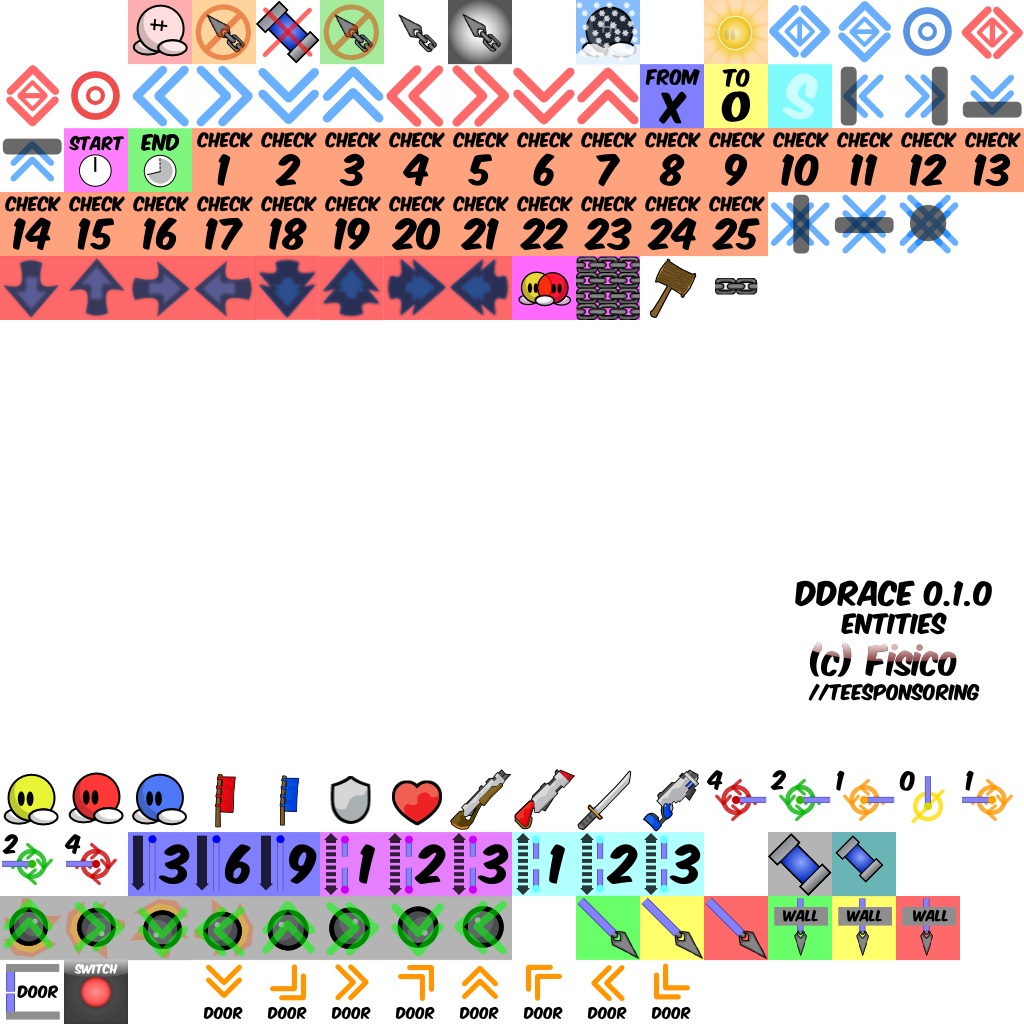
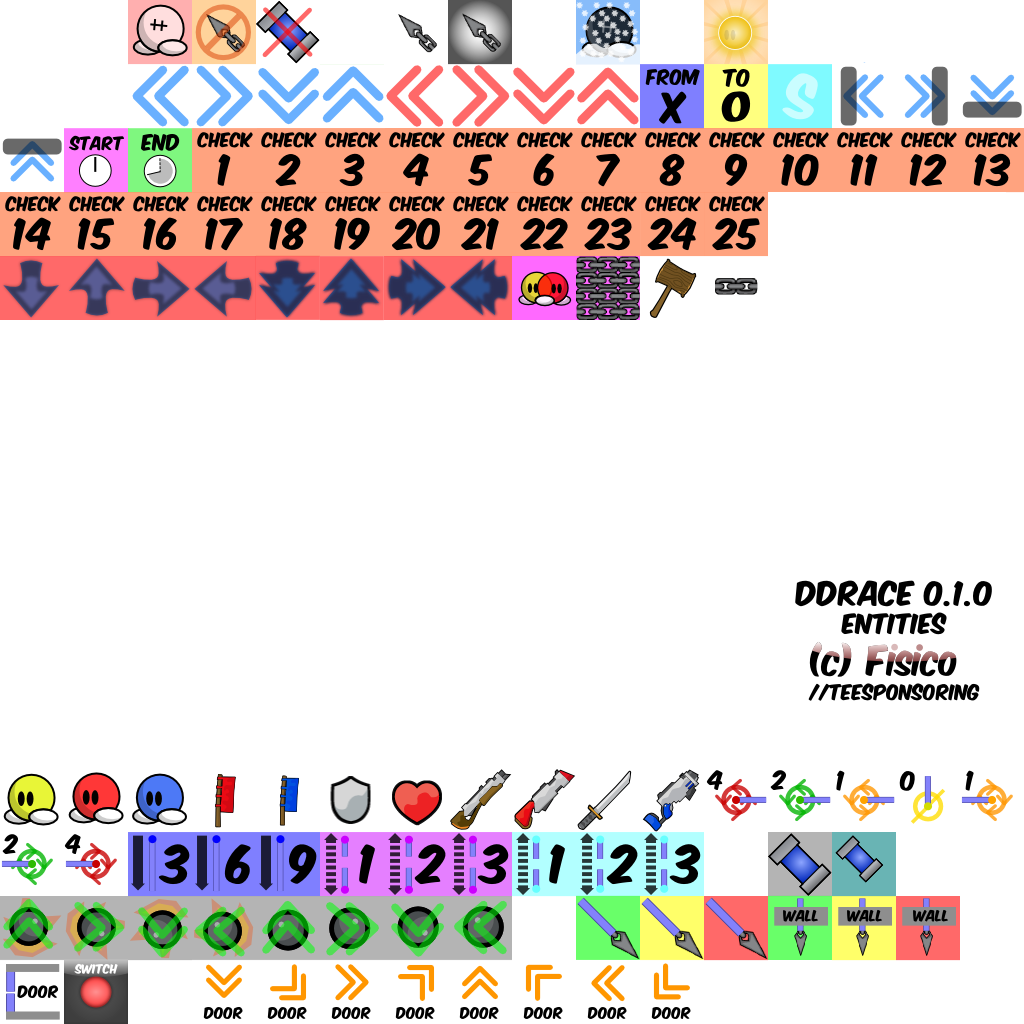
Removed Tiles that wouldn't work correctly

diff --git a/src/game/server/entities/character.cpp b/src/game/server/entities/character.cpp
@@ -734,128 +734,6 @@ void CCharacter::Tick()
 			m_Core.m_Vel.y = 0;
 		}
 	}
-	/*if(TileIndex1 == TILE_STOPH)// Itries and failed
-	{
-		if(m_Core.m_Vel.x > 0)
-		{
-			if((int)GameServer()->Collision()->GetPos(TileIndex1).x < (int)m_Core.m_Pos.x)
-				m_Core.m_Pos.x = m_PrevPrevPos.x;
-			m_Core.m_Vel.x = 0;
-		}
-		if(m_Core.m_Vel.x < 0)
-		{
-			if((int)GameServer()->Collision()->GetPos(TileIndex1).x > (int)m_Core.m_Pos.x)
-				m_Core.m_Pos.x = m_PrevPrevPos.x;
-			m_Core.m_Vel.x = 0;
-		}
-	}
-	if(TileIndex2 == TILE_STOPH)
-	{
-		if(m_Core.m_Vel.x > 0)
-		{
-			if((int)GameServer()->Collision()->GetPos(TileIndex2).x < (int)m_Core.m_Pos.x)
-				m_Core.m_Pos.x = m_PrevPrevPos.x;
-			m_Core.m_Vel.x = 0;
-		}
-		if(m_Core.m_Vel.x < 0)
-		{
-			if((int)GameServer()->Collision()->GetPos(TileIndex2).x > (int)m_Core.m_Pos.x)
-				m_Core.m_Pos.x = m_PrevPrevPos.x;
-			m_Core.m_Vel.x = 0;
-		}
-	}
-	if(TileIndex1 == TILE_STOPV)
-	{
-		if(m_Core.m_Vel.y < 0)
-		{
-			if((int)GameServer()->Collision()->GetPos(TileIndex1).y > (int)m_Core.m_Pos.y)
-				m_Core.m_Pos.y = m_PrevPrevPos.y;
-			m_Core.m_Vel.y = 0;
-		}
-		if(m_Core.m_Vel.y > 0)
-		{
-			if((int)GameServer()->Collision()->GetPos(TileIndex1).y < (int)m_Core.m_Pos.y)
-				m_Core.m_Pos.y = m_PrevPrevPos.y;
-			if(m_Jumped&3 && m_Core.m_Jumped != m_Jumped) // check double jump
-				m_Core.m_Jumped = m_Jumped;
-			m_Core.m_Vel.y = 0;
-		}
-	}
-	if(TileIndex2 == TILE_STOPV)
-	{
-		if(m_Core.m_Vel.y < 0)
-		{
-			if((int)GameServer()->Collision()->GetPos(TileIndex2).y > (int)m_Core.m_Pos.y)
-				m_Core.m_Pos.y = m_PrevPrevPos.y;
-			m_Core.m_Vel.y = 0;
-		}
-		if(m_Core.m_Vel.y > 0)
-		{
-			if((int)GameServer()->Collision()->GetPos(TileIndex2).y < (int)m_Core.m_Pos.y)
-				m_Core.m_Pos.y = m_PrevPrevPos.y;
-			if(m_Jumped&3 && m_Core.m_Jumped != m_Jumped) // check double jump
-				m_Core.m_Jumped = m_Jumped;
-			m_Core.m_Vel.y = 0;
-		}
-	}
-	if(TileIndex1 == TILE_STOPA)
-	{
-		if(m_Core.m_Vel.x > 0)
-		{
-			if((int)GameServer()->Collision()->GetPos(TileIndex1).x < (int)m_Core.m_Pos.x)
-				m_Core.m_Pos.x = m_PrevPrevPos.x;
-			m_Core.m_Vel.x = 0;
-		}
-		if(m_Core.m_Vel.x < 0)
-		{
-			if((int)GameServer()->Collision()->GetPos(TileIndex1).x > (int)m_Core.m_Pos.x)
-				m_Core.m_Pos.x = m_PrevPrevPos.x;
-			m_Core.m_Vel.x = 0;
-		}
-		if(m_Core.m_Vel.y < 0)
-		{
-			if((int)GameServer()->Collision()->GetPos(TileIndex1).y > (int)m_Core.m_Pos.y)
-				m_Core.m_Pos.y = m_PrevPrevPos.y;
-			m_Core.m_Vel.y = 0;
-		}
-		if(m_Core.m_Vel.y > 0)
-		{
-			if((int)GameServer()->Collision()->GetPos(TileIndex1).y < (int)m_Core.m_Pos.y)
-				m_Core.m_Pos.y = m_PrevPrevPos.y;
-			if(m_Jumped&3 && m_Core.m_Jumped != m_Jumped) // check double jump
-				m_Core.m_Jumped = m_Jumped;
-			m_Core.m_Vel.y = 0;
-		}
-	}
-	if(TileIndex2 == TILE_STOPA)
-	{
-		if(m_Core.m_Vel.x > 0)
-		{
-			if((int)GameServer()->Collision()->GetPos(TileIndex2).x < (int)m_Core.m_Pos.x)
-				m_Core.m_Pos.x = m_PrevPrevPos.x;
-			m_Core.m_Vel.x = 0;
-		}
-		if(m_Core.m_Vel.x < 0)
-		{
-			if((int)GameServer()->Collision()->GetPos(TileIndex2).x > (int)m_Core.m_Pos.x)
-				m_Core.m_Pos.x = m_PrevPrevPos.x;
-			m_Core.m_Vel.x = 0;
-		}
-		if(m_Core.m_Vel.y < 0)
-		{
-			if((int)GameServer()->Collision()->GetPos(TileIndex2).y > (int)m_Core.m_Pos.y)
-				m_Core.m_Pos.y = m_PrevPrevPos.y;
-			m_Core.m_Vel.y = 0;
-		}
-		if(m_Core.m_Vel.y > 0)
-		{
-			if((int)GameServer()->Collision()->GetPos(TileIndex2).y < (int)m_Core.m_Pos.y)
-				m_Core.m_Pos.y = m_PrevPrevPos.y;
-			if(m_Jumped&3 && m_Core.m_Jumped != m_Jumped) // check double jump
-				m_Core.m_Jumped = m_Jumped;
-			m_Core.m_Vel.y = 0;
-		}
-	}*/
 	if (TileIndex1 == TILE_BOOST_L || TileIndex2 == TILE_BOOST_L)
 	{
 		if(m_PrevPos.x-m_Pos.x<0)
@@ -884,19 +762,6 @@ void CCharacter::Tick()
 		else
 			m_Core.m_Vel.y += m_Core.m_Vel.y*0.5;
 	}
-	if(TileIndex1 == TILE_BOOSTH || TileIndex2 == TILE_BOOSTH)
-	{
-		m_Core.m_Vel.x += m_Core.m_Vel.x *-0.5;
-	}
-	if(TileIndex1 == TILE_BOOSTV || TileIndex2 == TILE_BOOSTV)
-	{
-		m_Core.m_Vel.y += m_Core.m_Vel.y *-0.5;
-	}
-	if(TileIndex1 == TILE_BOOSTA || TileIndex2 == TILE_BOOSTA)
-	{
-		m_Core.m_Vel.y += m_Core.m_Vel.y *-0.5;
-		m_Core.m_Vel.x += m_Core.m_Vel.x *-0.5;
-	}
 	if (TileIndex1 == TILE_BOOST_L2 || TileIndex2 == TILE_BOOST_L2)
 	{
 		if(m_PrevPos.x-m_Pos.x<0)
@@ -924,35 +789,6 @@ void CCharacter::Tick()
 			m_Core.m_Vel.y = m_Core.m_Vel.y *-1.1;
 		else
 			m_Core.m_Vel.y += m_Core.m_Vel.y*1.1;
-	}
-	if(TileIndex1 == TILE_BOOSTH2 || TileIndex2 == TILE_BOOSTH2)
-	{
-		if(m_PrevPos.x-m_Pos.x>0)
-			m_Core.m_Pos.x = m_PrevPrevPos.x;
-		else if(m_PrevPos.x-m_Pos.x<0)
-			m_Core.m_Pos.x = m_PrevPrevPos.x;
-		m_Core.m_Vel.x = m_Core.m_Vel.x *-1.1;
-	}
-	if(TileIndex1 == TILE_BOOSTV2 || TileIndex2 == TILE_BOOSTV2)
-	{
-		if(m_PrevPos.y-m_Pos.y>0)
-			m_Core.m_Pos.y = m_PrevPrevPos.y;
-		else if(m_PrevPos.y-m_Pos.y<0)
-			m_Core.m_Pos.y = m_PrevPrevPos.y;
-		m_Core.m_Vel.y = m_Core.m_Vel.y *-1.1;
-	}
-	if(TileIndex1 == TILE_BOOSTA2 || TileIndex2 == TILE_BOOSTA2)
-	{
-		if(m_PrevPos.y-m_Pos.y>0)
-			m_Core.m_Pos.y = m_PrevPrevPos.y;
-		else if(m_PrevPos.y-m_Pos.y<0)
-			m_Core.m_Pos.y = m_PrevPos.y;
-		if(m_PrevPos.x-m_Pos.x>0)
-			m_Core.m_Pos.x = m_PrevPrevPos.x;
-		else if(m_PrevPos.x-m_Pos.x<0)
-			m_Core.m_Pos.x = m_PrevPrevPos.x;
-		m_Core.m_Vel.y = m_Core.m_Vel.y *-1.1;
-		m_Core.m_Vel.x = m_Core.m_Vel.x *-1.1;
 	}
 	if(GameServer()->Collision()->IsSpeedup((int)m_Core.m_Pos.x, (int)m_Core.m_Pos.y))
 	{
@@ -1005,7 +841,6 @@ void CCharacter::Tick()
 		m_OlderPos = m_OldPos;
 		m_OldPos = m_Core.m_Pos;  		 
 	} 
-	m_PrevPrevPos = m_PrevPos;
 	m_PrevPos = m_Core.m_Pos;
 	return;
 }

diff --git a/src/game/collision.cpp b/src/game/collision.cpp
@@ -60,7 +60,7 @@ void CCollision::Init(class CLayers *pLayers)
 				}
 
 				// DDRace tiles
-				if(Index >= 5 && Index <= 59 || Index>=TILE_STOPH && Index<=191)
+				if(Index >= 5 && Index<=191)
 					m_pFront[i].m_Index = Index;
 			}
 	}
@@ -90,7 +90,7 @@ void CCollision::Init(class CLayers *pLayers)
 		}
 
 		// DDRace tiles
-		if(Index >= 5 && Index <= 59 || Index>=TILE_STOPH && Index<=191)
+		if(Index >= 5 && Index<=191)
 			m_pTiles[i].m_Index = Index;
 	}
 }

diff --git a/src/game/mapitems.h b/src/game/mapitems.h
@@ -101,12 +101,6 @@ enum
 	TILE_THROUGHS,
 	TILE_FREEZE=9,
 	TILE_UNFREEZE=11,
-	TILE_BOOSTH,
-	TILE_BOOSTV,
-	TILE_BOOSTA,
-	TILE_BOOSTH2,
-	TILE_BOOSTV2,
-	TILE_BOOSTA2,
 	TILE_BOOST_L,
 	TILE_BOOST_R,
 	TILE_BOOST_D,
@@ -124,9 +118,6 @@ enum
 	TILE_STOPT,
 	TILE_BEGIN,
 	TILE_END,
-	TILE_STOPH=60,
-	TILE_STOPV,
-	TILE_STOPA,
 	TILE_CP_D=64,
 	TILE_CP_U,
 	TILE_CP_R,

diff --git a/src/game/server/entities/character.h b/src/game/server/entities/character.h
@@ -163,7 +163,6 @@ public:
 	
 	int m_LastSpeedup;
 	vec2 m_PrevPos;
-	vec2 m_PrevPrevPos;
 
 	// checkpoints
 	int m_CpTick;
